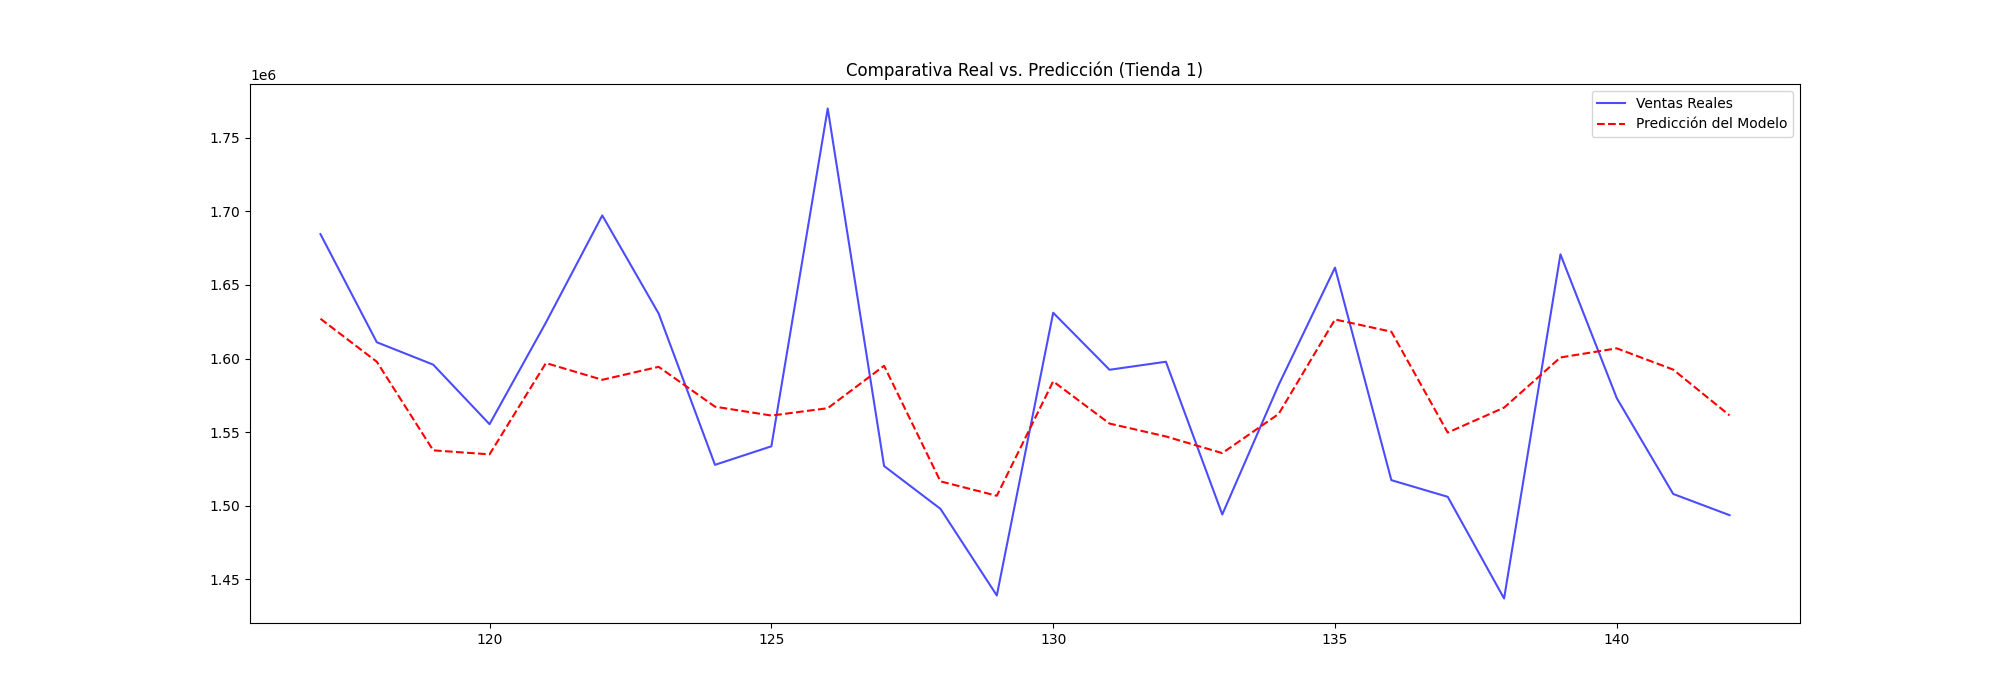
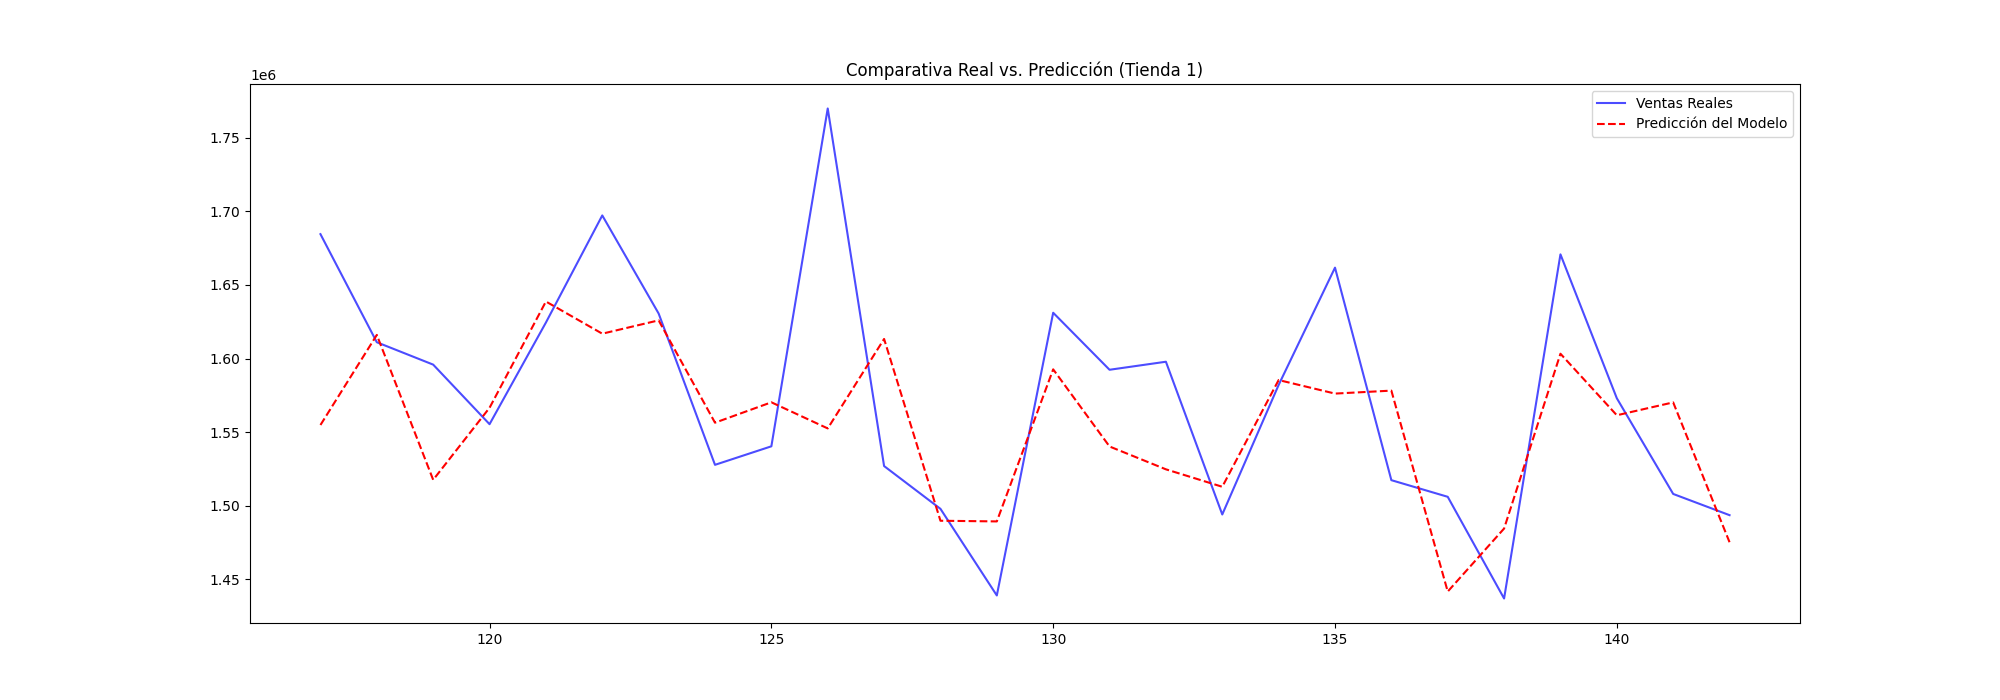
feat: copilot añadió más prints jeje

diff --git a/training.py b/training.py
@@ -1,7 +1,6 @@
 # run_training.py
 from pathlib import Path
 from demand_forecasting.walmart_data import WalmartDataloader, WalmartFeatures
-from demand_forecasting.model import train_model, evaluate_model, save_model
 from demand_forecasting.plotting import plot_predictions
 
 from demand_forecasting.trainers import (
@@ -54,37 +53,86 @@ CARACTERISTICAS_CATEGORICAS = [
 
 
 def main():
+    print("="*70)
+    print("ENTRENAMIENTO DE MODELO DE FORECASTING - WALMART SALES")
+    print("="*70)
+
+    # Cargar datos
+    print("\n1⃣ CARGANDO DATOS...")
     data_loader = WalmartDataloader()
     df = data_loader.get_clean_data()
-    trainer = LSTMTrainer()
 
+    # Usar LightGBM (modelo ganador)
+    print("\n2⃣ INICIALIZANDO MODELO: LightGBM")
+    print("   Motivo: Mejor precisión (MAE $37,462) y feature importance")
+    trainer = LightGBMTrainer()
+
+    # Split temporal
+    print(f"\n3⃣ DIVIDIENDO DATOS (fecha corte: {FECHA_CORTE_VAL})...")
+    print(f"   Features: {len(CARACTERISTICAS)}")
     X_train, y_train, X_val, y_val = split_data_by_date(
         df, FECHA_CORTE_VAL, CARACTERISTICAS, OBJETIVO
     )
 
+    # Entrenar
+    print("\n4⃣ ENTRENANDO MODELO...")
     trainer.train(X_train, y_train, X_val, y_val, CARACTERISTICAS_CATEGORICAS)
 
-    trainer.evaluate(X_val, y_val)
+    # Evaluar
+    print("\n5⃣ EVALUANDO MODELO...")
+    wmae, mae = trainer.evaluate(X_val, y_val)
 
-    trainer.save(MODELS_PATH / "lgbm_walmart_model.joblib")
+    # Calcular precisión
+    media_ventas = df[OBJETIVO].mean()
+    error_relativo = (mae / media_ventas) * 100
+    precision = 100 - error_relativo
 
+    print(f"\n{'='*70}")
+    print(f"📊 MÉTRICAS FINALES")
+    print(f"{'='*70}")
+    print(f"   MAE:              ${mae:,.2f}")
+    print(f"   WMAE:             ${wmae:,.2f}")
+    print(f"   Error Relativo:   {error_relativo:.2f}%")
+    print(f"   Precisión:        {precision:.2f}%")
+    print(f"   Ventas Promedio:  ${media_ventas:,.2f}")
+    print(f"{'='*70}")
+
+    # Guardar modelo
+    print(f"\n6⃣ GUARDANDO MODELO...")
+    model_path = MODELS_PATH / "lgbm_walmart_model.joblib"
+    trainer.save(model_path)
+    print(f"   ✓ Modelo guardado en: {model_path}")
+
+    # Generar predicciones para plots
+    print(f"\n7⃣ GENERANDO VISUALIZACIONES...")
     predicciones = trainer.predict(X_val)
     val_data_original = df[
         df[WalmartFeatures.DATE.value] >= FECHA_CORTE_VAL
-    ]  # Necesitamos el df original
+    ]
 
+    # Plot predicciones vs reales
+    plot_path = PLOTS_PATH / "predicciones_tienda_1.png"
     plot_predictions(
         val_data_original,
         predicciones,
         store_id=1,
-        save_path=PLOTS_PATH / "predicciones_tienda_1.png",
+        save_path=plot_path,
     )
+    print(f"   ✓ Predicciones guardadas en: {plot_path}")
 
-    trainer.plot_feature_importance(
-        save_path=PLOTS_PATH / "importancia_caracteristicas.png"
-    )
+    # Plot feature importance
+    importance_path = PLOTS_PATH / "importancia_caracteristicas.png"
+    trainer.plot_feature_importance(save_path=importance_path)
+    print(f"   ✓ Importancia features guardada en: {importance_path}")
 
-    print("\n¡Pipeline de entrenamiento completado!")
+    print(f"\n{'='*70}")
+    print("✅ PIPELINE DE ENTRENAMIENTO COMPLETADO")
+    print(f"{'='*70}")
+    print(f"\nArchivos generados:")
+    print(f"   • Modelo:      {model_path}")
+    print(f"   • Predicción:  {plot_path}")
+    print(f"   • Importance:  {importance_path}")
+    print()
 
 
 if __name__ == "__main__":
